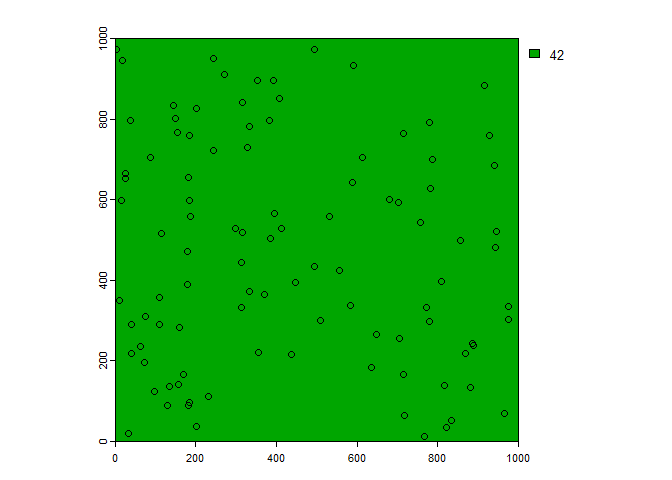
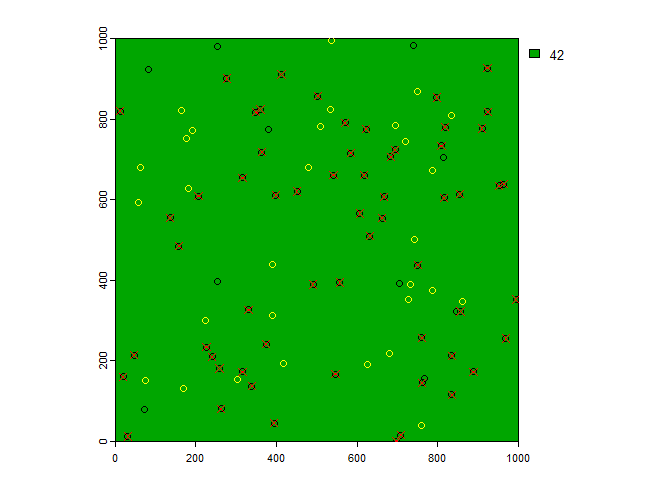
Fix the readme with add=T on the plot functions

diff --git a/README.md b/README.md
@@ -160,21 +160,11 @@ reports <- sim_report_equal(state_target,detections,prob=0.8,platform="iRecord")
 
 plot(state_target) #state of target
 plot(effort$geometry,add=T) #effort
+plot(detections$geometry[detections$detected==F],col="red",pch=4,add=T) #highlight the non-detections
+plot(reports$geometry[reports$reported],col="yellow",add=T) # highlight reported records as yellow
 ```
 
 ![](README_files/figure-gfm/example-1.png)<!-- -->
-
-``` r
-plot(detections$geometry[detections$detected==F],col="red",pch=4) #highlight the non-detections
-```
-
-![](README_files/figure-gfm/example-2.png)<!-- -->
-
-``` r
-plot(reports$geometry[reports$reported],col="yellow") # highlight reported records as yellow
-```
-
-![](README_files/figure-gfm/example-3.png)<!-- -->
 
 ``` r
 #mod1 <- lm(simulated_data, ...)
